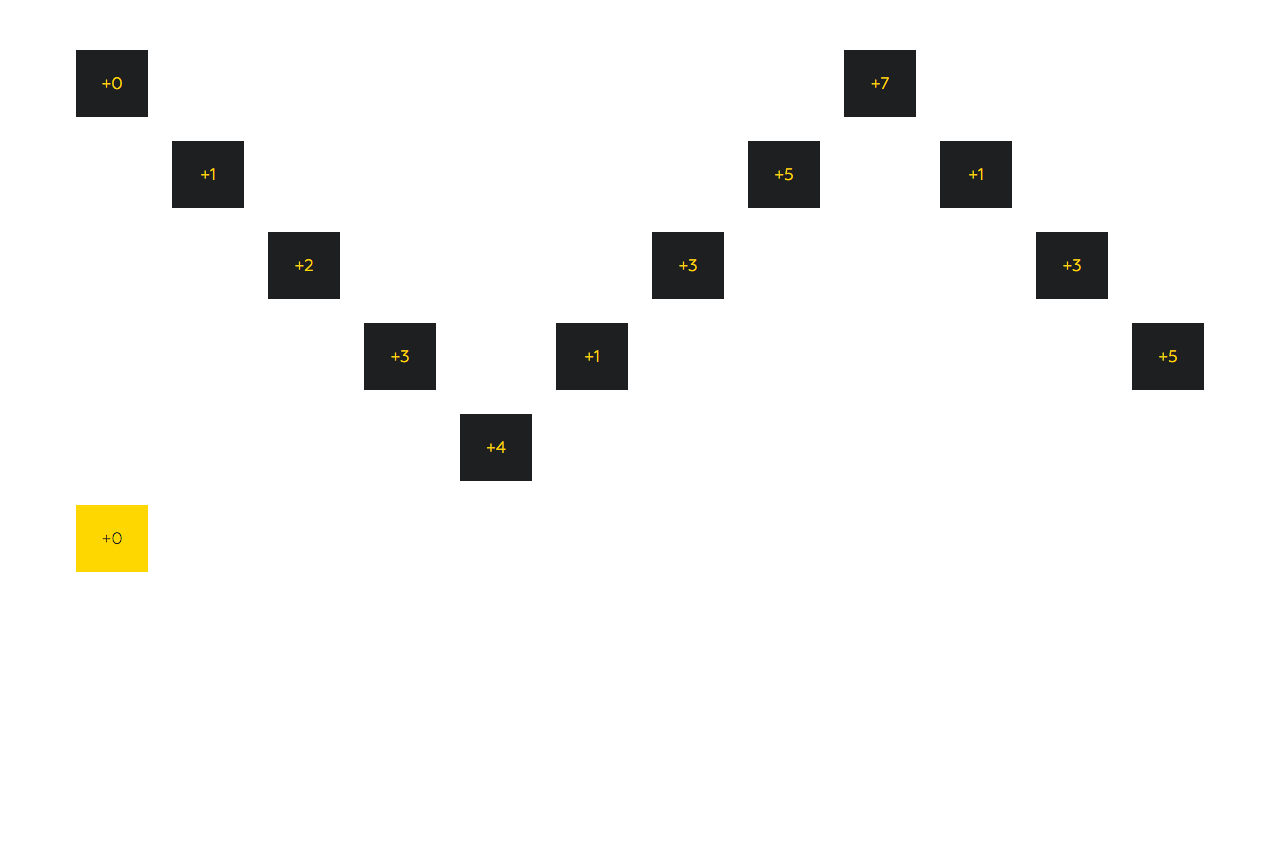
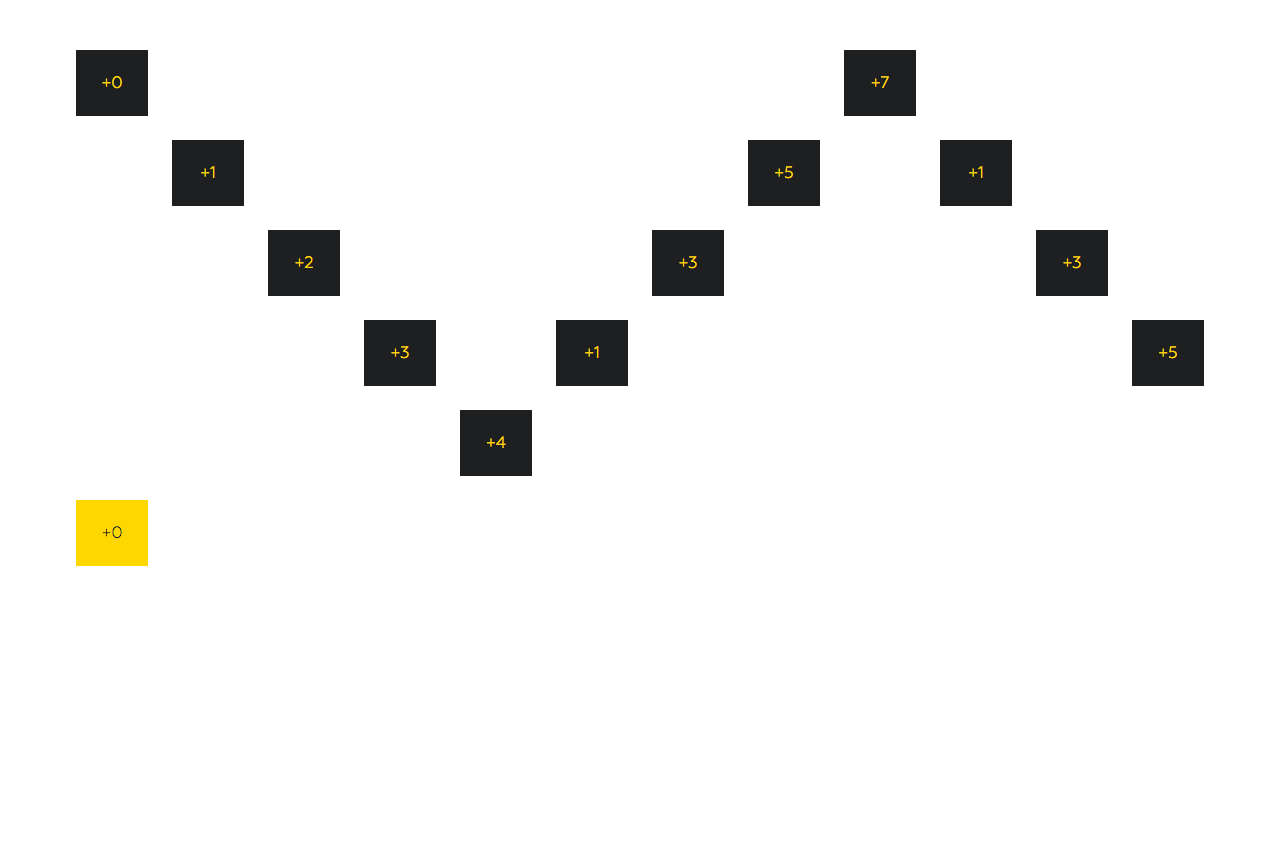
fix(grid): Correct size 'fit' on Edge
Add support for MS Edge

There are many cross browser text rendering differences that do not matter for the
purposes of Reflex but that impact image comparison tests (they are still pixel differences)

To work around that this PR makes 3 changes:

- Add css reset
- Remove text where it was problematic and not needed
- Set a fixed pixel height where compound 1px differences caused by cross browser text
  rendering issues where big enough to cause the tests to fail

diff --git a/storybook/stories/grid/padding.js b/storybook/stories/grid/padding.js
@@ -1,24 +1,41 @@
 // @flow
 import React from 'react'
+import type { Children } from 'react'
 import { Grid, Col } from 'reflex'
-import { RootLayout, getMarginSelect, loremIpsum } from '../../shared'
+import type { Size } from '../../../src/types'
+import { RootLayout, getMarginSelect } from '../../shared'
 import { all, topRight, xBottom } from '../../shared/marginTypes'
 import styles from '../../shared/stories.css'
+
+type HeadingProps = {
+  children: Children,
+  size?: Size,
+}
+
+/**
+ * fonts render differently between browsers, which impacts image comparison tests. To reduce these
+ * differences, we lock the header height
+ */
+const Heading = ({ children, size }: HeadingProps) =>
+  <Grid marginBottom={1} size={size} style={{ height: 61 }}>
+    <h1>
+      {children}
+    </h1>
+  </Grid>
 
 export default function() {
   const margin = getMarginSelect()
   const text = (
-    <div className={styles.colors1}>
-      {loremIpsum.substr(0, 150)}
-    </div>
+    <div
+      className={styles.colors1}
+      style={{ minHeight: 55, width: '100%', textAlign: 'center' }}
+    />
   )
 
   return (
     <RootLayout>
       <Col>
-        <Grid marginBottom={1}>
-          <h1>Default (No Padding)</h1>
-        </Grid>
+        <Heading>Default (No Padding)</Heading>
         <Grid size={6} dev={2}>
           <Grid margin={margin} dev={3}>
             {text}
@@ -26,12 +43,8 @@ export default function() {
         </Grid>
       </Col>
       <Col>
-        <Grid size={6} marginBottom={1}>
-          <h1>Top Right Padding</h1>
-        </Grid>
-        <Grid size={6} marginBottom={1}>
-          <h1>Item Top Right Padding</h1>
-        </Grid>
+        <Heading size={6}>Top Right Padding</Heading>
+        <Heading size={6}>Item Top Right Padding</Heading>
         <Grid size={6} dev={2} padding={topRight}>
           <Grid margin={margin} dev={3}>
             {text}
@@ -44,12 +57,8 @@ export default function() {
         </Grid>
       </Col>
       <Col>
-        <Grid size={6} marginBottom={1}>
-          <h1>All-sides Padding</h1>
-        </Grid>
-        <Grid size={6} marginBottom={1}>
-          <h1>Item All-sides Padding</h1>
-        </Grid>
+        <Heading size={6}>All-sides Padding</Heading>
+        <Heading size={6}>Item All-sides Padding</Heading>
         <Grid size={6} dev={2} padding={all}>
           <Grid margin={margin} dev={3}>
             {text}
@@ -62,12 +71,8 @@ export default function() {
         </Grid>
       </Col>
       <Col>
-        <Grid size={6} marginBottom={1}>
-          <h1>Bottom Padding</h1>
-        </Grid>
-        <Grid size={6} marginBottom={1}>
-          <h1>Item Bottom Padding</h1>
-        </Grid>
+        <Heading size={6}>Bottom Padding</Heading>
+        <Heading size={6}>Item Bottom Padding</Heading>
         <Grid size={6} dev={2} paddingBottom={1}>
           <Grid margin={margin} dev={3}>
             {text}
@@ -80,12 +85,8 @@ export default function() {
         </Grid>
       </Col>
       <Col>
-        <Grid size={6} marginBottom={1}>
-          <h1>Top-Right-Left Padding</h1>
-        </Grid>
-        <Grid size={6} marginBottom={1}>
-          <h1>Item Top-Right-Left Padding</h1>
-        </Grid>
+        <Heading size={6}>Top-Right-Left Padding</Heading>
+        <Heading size={6}>Item Top-Right-Left Padding</Heading>
         <Grid size={6} dev={2} padding={xBottom}>
           <Grid margin={margin} dev={3}>
             {text}
@@ -99,9 +100,7 @@ export default function() {
       </Col>
 
       <Col>
-        <Grid marginBottom={1}>
-          <h1>With Justify / Alignment</h1>
-        </Grid>
+        <Heading>With Justify / Alignment</Heading>
         <Grid size={6} marginBottom={1}>
           <h2>Container Padding</h2>
         </Grid>

diff --git a/storybook/stories/layout/parent.js b/storybook/stories/layout/parent.js
@@ -2,19 +2,16 @@
 import React from 'react'
 import { number } from '@storybook/addon-knobs'
 import { Grid, Layout, Root } from 'reflex'
-import { loremIpsum } from '../../shared'
 import styles from '../../shared/layout.css'
 
 export default function() {
-  const repeats = number('Add text', 3, { range: true, min: 0, max: 5 })
+  const height = number('Add height', 0, { range: true, min: 0, max: 5000 })
 
   return (
     <Layout height="parent" className={styles.page} dev={2}>
       <Root>
         <Grid margin={[0, 0.5]}>
-          <Grid padding={[1]}>
-            {loremIpsum.repeat(repeats)}
-          </Grid>
+          <Grid padding={[1]} style={{ height }} dev={1} />
         </Grid>
       </Root>
     </Layout>

diff --git a/storybook/stories/layout/auto.js b/storybook/stories/layout/auto.js
@@ -2,7 +2,6 @@
 import React from 'react'
 import { boolean } from '@storybook/addon-knobs'
 import { Grid, Layout, Root } from 'reflex'
-import { loremIpsum } from '../../shared'
 import styles from '../../shared/layout.css'
 
 export default function() {
@@ -14,7 +13,7 @@ export default function() {
         <Root>
           <Grid margin={[0, 0.5]}>
             <Grid padding={[1]}>
-              {loremIpsum}
+              The auto Layout height fills the remaining space
             </Grid>
           </Grid>
         </Root>

diff --git a/storybook/stories/components/search/results.js b/storybook/stories/components/search/results.js
@@ -33,7 +33,10 @@ export default function SearchResults({
         </Col>
       </Grid>
       {times(results, key =>
-        <Grid key={key}>
+        <Grid key={key} style={{ height: 159 }}>
+          {/**
+            * Explicitly setting height to work around cross browser font height differences
+            */}
           <Col size={5}>
             <Grid marginBottom={0.5} dev={1}>
               Orci tempus venenatis

diff --git a/src/base.css b/src/base.css
@@ -44,12 +44,15 @@
   }
 
   &.col-fit {
-    flex-basis: 0;
+    flex-basis: 0%; /* % is required for Edge */
     white-space: nowrap;
   }
 
   &.col-auto {
-    flex: 1 1 0%;
+    /* expanded shorthand for Edge */
+    flex-grow: 1;
+    flex-shrink: 1;
+    flex-basis: 0%; /* % is required for Edge */
   }
 }
 

diff --git a/storybook/shared/stories.css b/storybook/shared/stories.css
@@ -1,5 +1,21 @@
 @import "./variables.css";
 
+html {
+  line-height: 1.15;
+  font-size: 100%;
+  -ms-text-size-adjust: 100%;
+  -webkit-text-size-adjust: 100%;
+}
+
+article,
+aside,
+footer,
+header,
+nav,
+section {
+  display: block;
+}
+
 body {
   margin: 0;
   padding: 50px 0;

diff --git a/test/screenshot/specs/index.js b/test/screenshot/specs/index.js
@@ -41,7 +41,7 @@ function getBrowserName({ options }) {
   switch (browserName) {
     case 'internet explorer':
       return 'ie'
-    case 'MicrosoftEdge':
+    case 'microsoftedge':
       return 'edge'
     default:
       return browserName

diff --git a/storybook/stories/examples/layout.css b/storybook/stories/examples/layout.css
@@ -4,11 +4,11 @@
   /* header heights, hard coded offsets */
 
   & .main {
-    margin-top: 62px;
+    margin-top: 56px;
   }
 
   &.hasSubheader .main {
-    margin-top: 177px;
+    margin-top: 168px;
   }
   /* end of hard coded offsets */
 }

diff --git a/storybook/shared/layout.css b/storybook/shared/layout.css
@@ -1,12 +1,11 @@
 .page {
   position: absolute;
   top: 0;
+  line-height: 1;
 
   & p,
   & ul,
-  & li,
-  & h1,
-  & h2 {
+  & li {
     margin: 0;
     padding: 0;
   }

diff --git a/storybook/stories/examples/report.css b/storybook/stories/examples/report.css
@@ -2,7 +2,7 @@
 
 /* header heights, hard coded offsets */
 .reportMain {
-  margin-top: 157px;
+  margin-top: 144px;
 }
 /* end of hard coded offsets */
 
